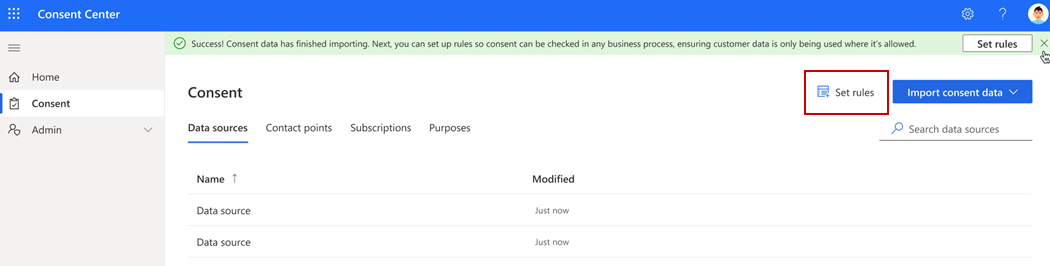
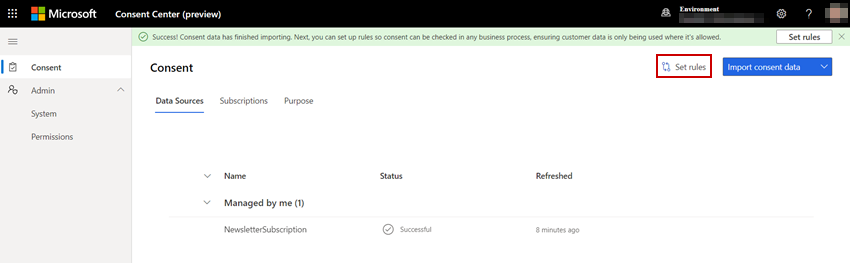
update images and content

diff --git a/ci-docs/consent-management/set-consent-rules.md b/ci-docs/consent-management/set-consent-rules.md
@@ -1,7 +1,7 @@
 ---
 title: "Configure the usage of customer data and consent preferences"
 description: "Create consent rules and configure the default consent rules."
-ms.date: 09/30/2021
+ms.date: 10/30/2021
 ms.service: customer-insights
 ms.topic: how-to
 author: smithy7
@@ -28,21 +28,32 @@ Once consent data is in the system, go to the **Consent** page in the Consent Ce
 
 Consent data rules will be available in audience insights where you can apply them as rules to individual segments or exports. You can assign these rules to purposes and subscriptions as default rules that automatically apply to all segments. The app guides you through the steps to complete to map the consent data. 
 
-1. Go to **Consent** and select **Set rules**. The **Set consent data rules** process starts.
+1. Go to **Consent** and select **Set rules** to start the **Map consent data** process.
 
-1. In the **Set up rules** step, create the first rule.
+### Set rules
+
+The first step defines if customers should be included or excluded based on their content preferences. Every imported data source with consent data must be part of a rule mapping. For example, you have imported two consent data sources for product offers and company news. Your rule mapping could have two rule mappings. One includes contacts that opted-in to the product offers. The other excludes contacts that opted-out from company news.
+
+1. In the **Set rules** step, create the first rule.
    :::image type="content" source="media/set-up-rules-step.png" alt-text="Set up rules step with available options."::: 
     1. Under **Select actions**, specify if you want to **Include** or **Exclude** contacts. 
     1. Under **Select data**, choose the purposes or subscriptions to apply the logic to. 
     1. Under **Select value(s)**, select the values to complete the rule.
-    1. Optionally, select **Add a rule** to define more rules.
+
+1. Optionally, select **Add another mapping** to define more rules.
 
 1. Select **Next**.
+
+### Apply rules as default (optional)
+
+In this step, you choose which purposes and subscriptions will have the rule mappings applied to all segments in audience insights. Rules for the imported consent data are automatically synced to audience insights. Administrators have to activate the consent rules and can allow users to override the default selection.
 
 1. In the **Apply rules as default (optional)** step, choose which purposes and subscriptions to apply the rule to. These rules are then applied to segments in audience insights.
    :::image type="content" source="media/apply-rules-default.png" alt-text="Select the data the rules apply to by default. ":::
 
 1. Select **Next**.
+
+### Review and finish
 
 1. Review the configuration and select **Set rules** to complete the process. 
 

diff --git a/ci-docs/consent-management/DSR-request.md b/ci-docs/consent-management/DSR-request.md
@@ -1,7 +1,7 @@
 ---
 title: "Respond to DSR requests under GDPR"
 description: "Learn how to remove personal data from the consent management capability of Customer Insights."
-ms.date: 09/30/2021
+ms.date: 10/30/2021
 ms.service: customer-insights
 ms.topic: how-to
 author: smithy7

diff --git a/ci-docs/consent-management/get-started.md b/ci-docs/consent-management/get-started.md
@@ -1,7 +1,7 @@
 ---
 title: "Get started with the consent management capability"
 description: "Quickstart guide to configure and use consent data in Customer Insights."
-ms.date: 09/30/2021
+ms.date: 10/30/2021
 ms.service: customer-insights
 ms.topic: how-to
 author: smithy7
